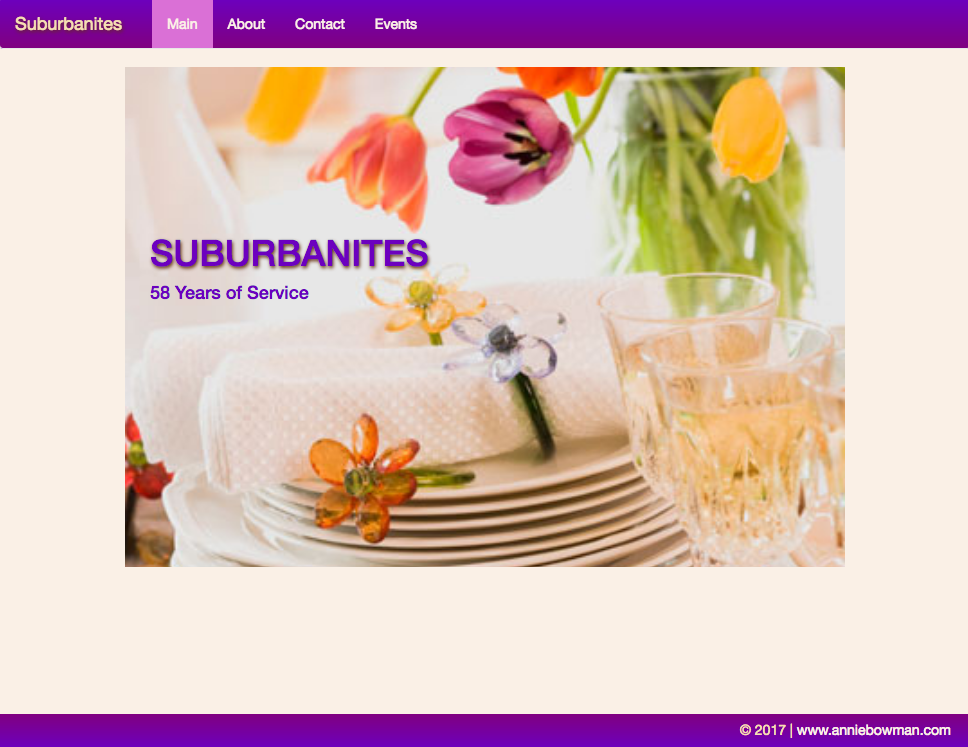
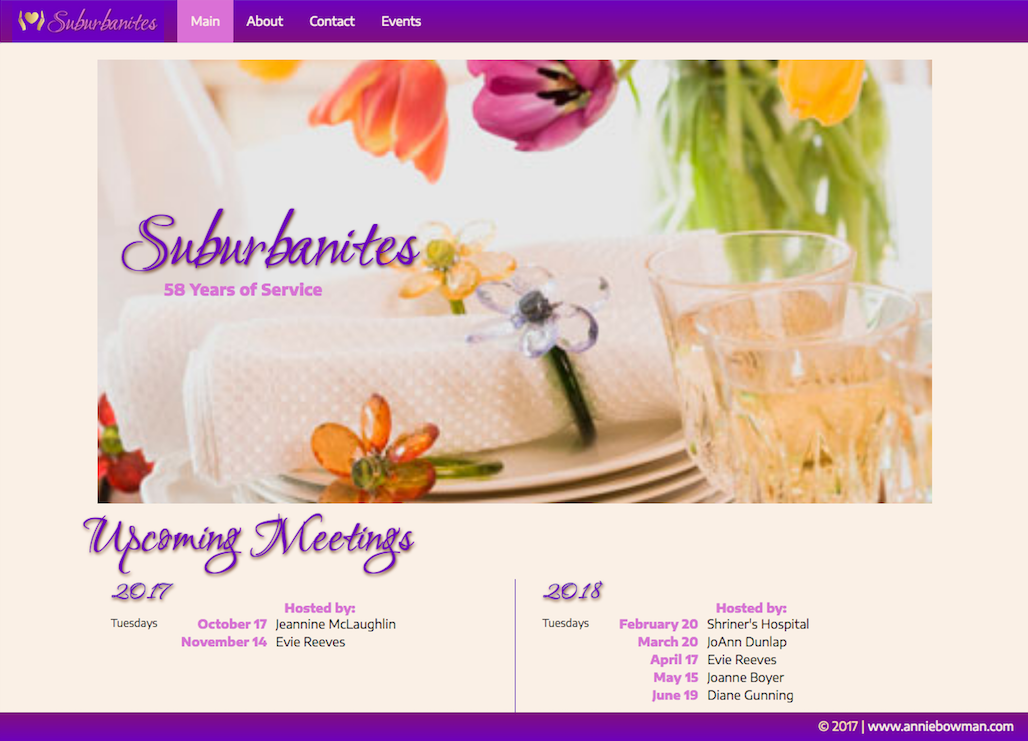
add new project and update info

diff --git a/index.html b/index.html
@@ -66,7 +66,7 @@
  			<div class="row">
 				<div class="col-lg-7 col-lg-offset-5 col-md-8 col-md-offset-4 col-sm-10 col-sm-offset-1 col-xs-12">
 					<div class="cont-wrapper">
-						<p class="intro">- Full-Stack Developer - <br> Skills: HTML5, CSS3, JavaScript, SQL, Python, C# and ASP.NET MVC</p>
+						<p class="intro">- Full-Stack Developer - <br> Skills: HTML5, CSS3, JavaScript, jQuery, AngularJS, D3js, SQL, Python, C#, ASP.NET Core MVC</p>
 						<p class="btn-wrp"><a href="#contact" class="c2a-button">Contact Me</a></p>
 					</div><!-- end cont wrapper -->
 				</div><!-- end 8 -->
@@ -91,8 +91,8 @@
 	<div class="row">
 		<div class="col-lg-7 col-md-7 col-sm-7 col-xs-12  text">
 			<h2>A little about me</h2>
-			<p>Currently I am learning Software and Web Development by attending The Tech Academy's remote Software Development program. I plan on making Seattle my base of operations to move forward in the field. As of now I'm comfortable with the basics of computer technology and front-end web development including HTML5/CSS3 and JavaScript. I also have experience in Python, C# and the ASP.NET Framework including MVC and Entity Framework. <br> I have 10 years experience in Customer Account Management and Pricing in the Footwear industry, as well as a BS in Psychology from WSU. I also love to knit, play the ukulele and lift really heavy weights.</p>
-			<p><strong>Highly detail oriented, exceptionally organized, fun to work with!</strong></p>
+			<p>Currently I am pursuing a career in Software and Web Development after completing The Tech Academy's remote Software Development program. I plan on making Seattle my base of operations to move forward in the field. I'm comfortable with the basics of computer technology and front-end web development including HTML5/CSS3, JavaScript, jQuery, AngularJS and D3js. I also have experience in Python, SQL, C# and the ASP.NET Framework including MVC and EF. <br> I have 10 years experience in Customer Account Management and Pricing in the Footwear industry, as well as a BS in Psychology from WSU. I also love to knit, play the ukulele and lift really heavy weights.</p>
+			<p><strong>I'm highly detail oriented, exceptionally organized, and really fun to work with!</strong></p>
 			<p class="btn-wrp"><a href="#contact" class="c2a-button">Get in Touch</a></p>
 		</div>
 		<div class="col-lg-5 col-md-5 col-sm-5 ipad hidden-xs">
@@ -124,24 +124,40 @@
         <li data-target="#myCarousel" data-slide-to="9"></li>
         <li data-target="#myCarousel" data-slide-to="10"></li>
         <li data-target="#myCarousel" data-slide-to="11"></li>
+        <li data-target="#myCarousel" data-slide-to="12"></li>
       </ol>
 
       <div class="carousel-inner">
 
-        <!-- item -->
-        <div class="item active">
-           <!-- edit contents here -->
-           <div class="container">
-              <h1>Just Dog Stuff Shop</h1>
-              <div class="caption">
-                 <p>A fun and simple ecommerce sample website built using ASP.NET Core MVC. </p>
-              </div>
-           </div>
-           <img src="./images/justdogstuffshop.png" alt="screenshot of Just Dog Stuff Shop home page" class="img-responsive" >
-           <p class="btn-wrp"><a href="http://justdogstuffshop.azurewebsites.net" target="_blank" class="c2a-button">Check it out</a></p>
-                 <!-- stop editing here -->
-        </div>
-        <!-- end item -->
+      <!-- item -->
+      <div class="item active">
+         <!-- edit contents here -->
+         <div class="container">
+            <h1>Global Obesity Viz</h1>
+            <div class="caption">
+               <p>A fun data visualization created for UW's Institute of Health Metrics and Evaluation during the interview process.</p>
+            </div>
+         </div>
+         <img src="./images/ObesityViz.png" alt="screenshot of Obesity Visualization" class="img-responsive" >
+         <p class="btn-wrp"><a href="https://abvolatile.github.io/ObesityViz/" target="_blank" class="c2a-button">Check it out</a></p>
+               <!-- stop editing here -->
+      </div>
+      <!-- end item -->
+
+      <!-- item -->
+      <div class="item">
+         <!-- edit contents here -->
+         <div class="container">
+            <h1>Just Dog Stuff Shop</h1>
+            <div class="caption">
+               <p>A fun and simple ecommerce sample website built using ASP.NET Core MVC. </p>
+            </div>
+         </div>
+         <img src="./images/justdogstuffshop.png" alt="screenshot of Just Dog Stuff Shop home page" class="img-responsive" >
+         <p class="btn-wrp"><a href="http://justdogstuffshop.azurewebsites.net" target="_blank" class="c2a-button">Check it out</a></p>
+               <!-- stop editing here -->
+      </div>
+      <!-- end item -->
 
       <!-- item -->
       <div class="item">
@@ -351,7 +367,7 @@
 		<div class="row">
 			<div class="col-lg-8 col-lg-offset-2 col-md-10 col-md-offset-1">
 				<h2>What I bring to the table</h2>
-				<p>I am currently attending <a href="https://www.learncodinganywhere.com" target="_blank">The Tech Academy</a> remotely for education and training in Software and Web Development. I previously earned a Bachelor of Science in Psychology from Washington State University and I have 10 years of experience in the footwear industry. I'm a great communicator and I love working in teams.</p>
+				<p>I recently completed <a href="https://www.learncodinganywhere.com" target="_blank">The Tech Academy</a>'s Software and Web Development Bootcamp. I received a Bachelor of Science in Psychology from Washington State University and I have 10 years of experience in the footwear industry. I'm a great communicator and I love working in teams.</p>
 			</div>
 		</div><!-- end row -->
 
@@ -409,9 +425,9 @@
                            <p class="text-left">JavaScript is the first algorithm based and object-oriented programming language that I have learned. I found that most free resources teach the syntax and rules very well, but I'm very excited to learn more about the actual applications for using it along with HTML and CSS as well as server-side functionality.</p>
                            <h5 class="text-right">I know this!</h5>
                            <ul class="list-unstyled text-right">
-                              <li>JavaScript</li>
                               <li>jQuery</li>
                               <li>AngularJS</li>
+                              <li>D3js</li>
                            </ul>
                         </div> <!-- modal-body -->
                      </div> <!-- modal-content -->
